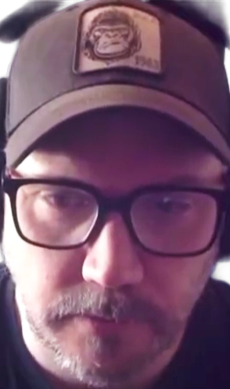
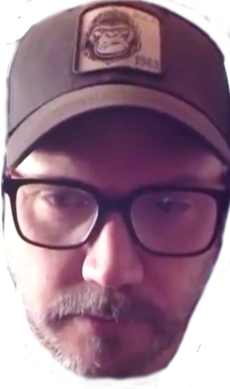
Win screen done!

Changed region(s): [[0.0, 0.1851, 1.0, 1.0], [0.0, 0.0, 0.5478, 0.1234], [0.5783, 0.0, 1.0, 0.1542]]

diff --git a/src/game.ts b/src/game.ts
@@ -1,10 +1,11 @@
 import p5 from 'p5';
 import { renderQuestion } from './modules/question';
-import { getSelectedQuestions, saveScore, getScore, getCurrentQuestionIndex, updateQuestionIndex } from './modules/state';
+import { getSelectedQuestions, saveScore, getScore, getCurrentQuestionIndex, updateQuestionIndex, currentQuestionIndex } from './modules/state';
 import type { Question } from './interface';
 import { shakeScreen } from './modules/effects';
 import { drawGameOver } from './modules/gameover';
 import { drawResetButton, getResetSettings } from './modules/resetGame';
+import { drawWin } from './modules/win';
 
 const clearQuestion = () => {
   const qContainer = document.querySelector(".question-container");
@@ -13,6 +14,7 @@ const clearQuestion = () => {
 
 export const gameSketch = (chosenImg: string, id: string, scoreRowId?: string) => (p: p5) => {
   let headImg: p5.Image | null = null; // Behållare för master img
+  let lashaImg: p5.Image | null = null;
   let playerImg: p5.Image | null = null;
   let posX: number = 0; // Gubbens position i sidled (vänster/höger)
   let posY: number = 0;  // Gubbens position i höjdled (när den hoppar)
@@ -41,6 +43,7 @@ export const gameSketch = (chosenImg: string, id: string, scoreRowId?: string) =
   let masterMood: 'neutral' | 'disappointed' = 'neutral';
   let initialScore: number = 0;
   let masterMessage = "Hehe! To continue you need to answer this...";
+  let lashaMessage = "Good work champion! You have defeated webmaster Freddan!"
 
   p.setup = () => {
     const canvas = p.createCanvas(600, 600); // Storlek på spelrutan
@@ -58,11 +61,17 @@ export const gameSketch = (chosenImg: string, id: string, scoreRowId?: string) =
       maskGraphics.fill(255);
       maskGraphics.noStroke();
       maskGraphics.ellipse(img.width / 2, img.height / 2, img.width, img.height);
-      img.mask(maskGraphics as any);
+      //img.mask(maskGraphics as any);
       headImg = img; 
     }, () => {
       console.error("Error: Could not find img");
     });
+
+    p.loadImage("/public/lasha.png", (img) => {
+      lashaImg = img;
+    }, () => {
+      console.log("Error: Could not find Lars img")
+    })
   };
   // när mellanslag trycks ner hoppar gubben
   p.keyPressed = () => {
@@ -72,7 +81,6 @@ export const gameSketch = (chosenImg: string, id: string, scoreRowId?: string) =
   };
 
  p.draw = () => {
-
   // Återställer allt om liven är slut
   if (lives <= 0) {
     p.resetMatrix();
@@ -93,7 +101,53 @@ export const gameSketch = (chosenImg: string, id: string, scoreRowId?: string) =
       updateQuestionIndex(0)
     });
     return;
+
   }
+
+  //Visar Win skärmen när spelaren har svarat på 10 frågor. Återställer variabler.
+if (currentQuestionIndex >= 1) {
+  p.resetMatrix();
+
+    //sparar scoren när man svarat på alla frågor i highscore om score för spelet var högre än förra scoret.
+    hasSaved = false; 
+    if (!hasSaved && scoreRowId) {
+      updateHighScore();
+    }
+
+  drawWin(p, () => {
+      clearQuestion();
+      masterMood = 'neutral';
+      masterMessage = "Hehe! To continue you need to answer this...";
+      lives = 3;
+      score = initialScore;
+      jumpCount = 0;
+      posX = 0;
+      laptops = [600, 1000, 1400];
+      brokenLaptops = [false, false, false];
+      hasJumpedOver = [false, false, false];
+      gameStopped = false;
+      waitingForAnswer = false;
+      isHandlingQuestion = false;
+      updateQuestionIndex(0)
+    })
+    
+  //När du har svarat på alla frågor och vunnit kommer Lars fram och gratulerar dig.
+  p.push();
+  p.translate(p.width / 2 - 200, p.height / 2 + 2); // välj position
+  drawCharacter(0, p.color(225, 41, 182), lashaImg || undefined);
+  //Lashas pratbubbla.
+  p.rectMode(p.CORNER);
+  p.fill(255); p.stroke(0); p.strokeWeight(2);
+  p.rect(-35, -150, 180, 60, 10); 
+  p.triangle(10, -90, 30, -90, 20, -75);
+  p.noStroke(); p.fill(0); p.textSize(14);
+  p.textAlign(p.CENTER, p.CENTER);
+  p.text(lashaMessage, -35, -150, 180, 60); 
+  p.pop();
+
+
+  return;
+}
     // skärmen skakar om man svarar fel i effects.ts
   if (isShaking && shakeTimer > 0) {
       shakeScreen(p);
@@ -202,32 +256,10 @@ export const gameSketch = (chosenImg: string, id: string, scoreRowId?: string) =
         }
       }
       
-     if (!hasSaved && scoreRowId) {
-    hasSaved = true;
 
-    fetch(`http://localhost:3000/scoreboard/${scoreRowId}`)
-      .then(res => res.json())
-      .then(async (currentEntry) => {
-        
-        // Spara bara om det är nytt rekord
-        if (score > currentEntry.highscore) {
-          console.log(`Nytt rekord! Uppdaterar rad ${scoreRowId} med poäng: ${score}`);
-          
-          await fetch(`http://localhost:3000/scoreboard/${scoreRowId}`, {
-            method: 'PUT',
-            headers: { 'Content-Type': 'application/json' },
-            body: JSON.stringify({
-              avatarId: id,
-              highscore: score,
-              id: scoreRowId 
-            })
-          });
-        }
-      })
-      .catch(err => {
-        console.error("Could not update points:", err);
-        hasSaved = false; // Tillåt nytt försök om det sket sig
-      });
+
+     if (!hasSaved && scoreRowId) {
+      updateHighScore()
 
       if (masterMood === 'disappointed') {
           p.noFill();
@@ -390,6 +422,35 @@ export const gameSketch = (chosenImg: string, id: string, scoreRowId?: string) =
       return;
     }
   }
+
+  //Funktion för att updatera highscore genom PUT till databasen.
+  function updateHighScore() {
+    hasSaved = true;
+
+    fetch(`http://localhost:3000/scoreboard/${scoreRowId}`)
+      .then(res => res.json())
+      .then(async (currentEntry) => {
+        
+        // Spara bara om det är nytt rekord
+        if (score > currentEntry.highscore) {
+          console.log(`Nytt rekord! Uppdaterar rad ${scoreRowId} med poäng: ${score}`);
+          
+          await fetch(`http://localhost:3000/scoreboard/${scoreRowId}`, {
+            method: 'PUT',
+            headers: { 'Content-Type': 'application/json' },
+            body: JSON.stringify({
+              avatarId: id,
+              highscore: score,
+              id: scoreRowId 
+            })
+          });
+        }
+      })
+      .catch(err => {
+        console.error("Could not update points:", err);
+        hasSaved = false; // Tillåt nytt försök om det sket sig
+      });
+      }
 //Denna funktion kallar på renderQuestion så det rendreras ut och väntar på return
 //från render funktionen för att sedan uppdatera score variabeln. 
   async function handleQuestion(question: Question, pInstance: p5) {

diff --git a/src/modules/win.ts b/src/modules/win.ts
@@ -5,20 +5,20 @@ export function winState() {
 }
 
 
-export const drawWin = (p: p5) => {
+export const drawWin = (p: p5, onRestart: () => void) => {
     p.push();
   p.resetMatrix();
   
-  // Transparent mörk bakgrund
+  // Transparent gul bakgrund
   p.rectMode(p.CORNER);
   p.fill(255, 255, 0, 200); 
   p.rect(0, 0, p.width, p.height);
 
-  // Röd gameover-text
+  // Röd win-text
   p.fill(255, 50, 50); 
   p.textAlign(p.CENTER, p.CENTER);
   p.textSize(50);
-  p.text("GAME OVER", p.width / 2, p.height / 2 - 60);
+  p.text("YOU WIN!", p.width / 2, p.height / 2 - 60);
 
   const btnW = 200;
   const btnH = 60;
@@ -39,13 +39,13 @@ export const drawWin = (p: p5) => {
   p.text("Restart", btnX, btnY);
   p.pop();
 
-  // kollar om musen är över knappen när man klickar
- // const isOverButton = p.mouseX > btnX - btnW/2 && 
- //                      p.mouseX < btnX + btnW/2 && 
- //                      p.mouseY > btnY - btnH/2 && 
- //                      p.mouseY < btnY + btnH/2;
+  //kollar om musen är över knappen när man klickar
+ const isOverButton = p.mouseX > btnX - btnW/2 && 
+                      p.mouseX < btnX + btnW/2 && 
+                      p.mouseY > btnY - btnH/2 && 
+                      p.mouseY < btnY + btnH/2;
 
- // if (isOverButton && p.mouseIsPressed) {
- //   restartGame();
- // }
+ if (isOverButton && p.mouseIsPressed) {
+   onRestart();
+ }
 }

diff --git a/src/modules/question.ts b/src/modules/question.ts
@@ -1,7 +1,9 @@
 import { fetchQuestion } from "./fetch";
 import type { Question } from "../interface";
 import { getScore, saveScore, incrementQuestionIndex, getCurrentQuestionIndex } from "./state";
-import { winState } from "./win";
+import { winState, drawWin } from "./win";
+
+import p5 from "p5"
 
 export let scoreCount = 0 // Ska bestämma och ändra hur mycket poäng man får
 
@@ -102,18 +104,7 @@ export function checkAnswer(userInput: string, correctInput: string, p: p5) {
         const currentScore = getScore() //Hämtar nuvarande scoret från state.ts
         updateScore (currentScore, scoreCount)
         incrementQuestionIndex()
-
-        //Variabler för jämförelse
-        const currentIndex = getCurrentQuestionIndex()
-        //Kollar index om man svarat på varje fråga
-        if (currentIndex >= 2) {
-            drawWin(p)
-        }
-        console.log("Korrekt!")
-    } else {
-        //Skriva en funktion för fel svar.
-        console.log("FEEEL!")
-    }
+    } 
 }
 
 //Uppdaterar score till det korrekta poängsystemet beroende på svårighetsgrad(10/20/30)

diff --git a/src/modules/state.ts b/src/modules/state.ts
@@ -27,7 +27,7 @@ export function getScore () {
 
 
 //variabel och funktioner för att spara och hämta frågeindex---
-let currentQuestionIndex: number = 0
+export let currentQuestionIndex: number = 0
 
 export function incrementQuestionIndex() {
     currentQuestionIndex++
